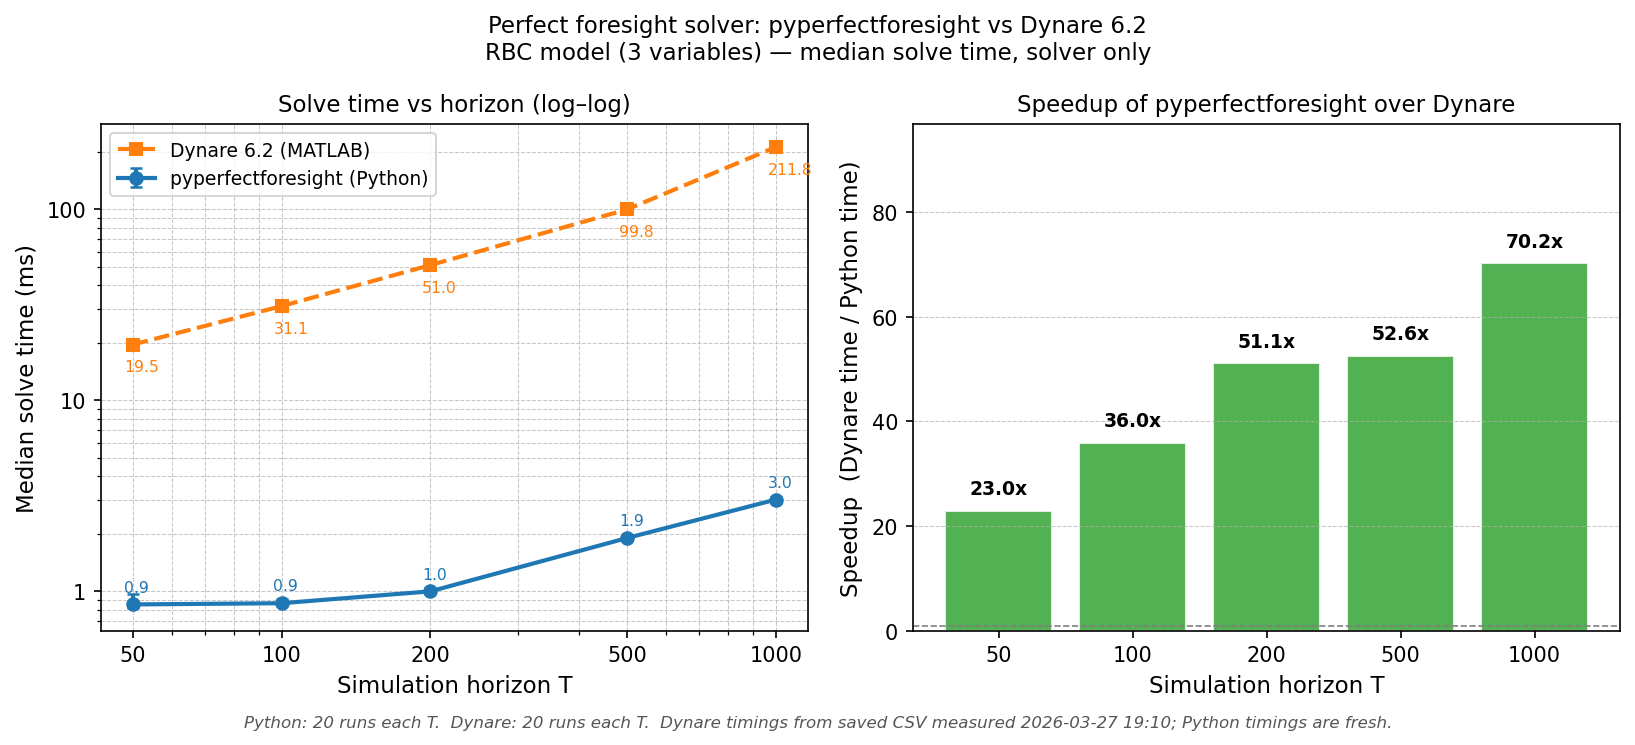
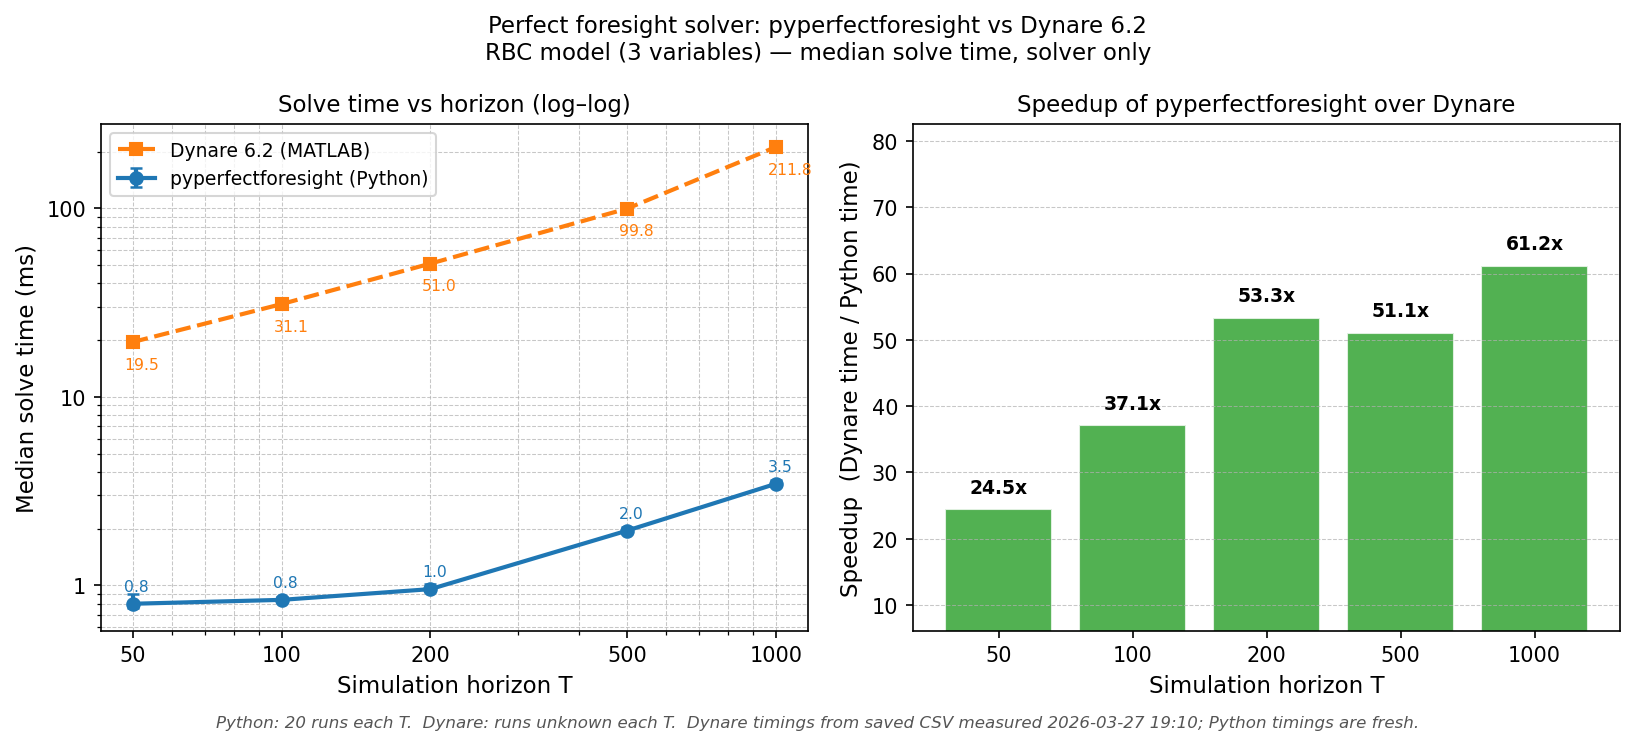
fix: address Copilot review comments on PR #43
- Fix --plot-out help text: was "scripts/benchmark_plot.png", now correctly
  says "docs/benchmark_plot.png" to match the actual default path
- Fix dynare_nreps for CSV source: rep count is not stored in the CSV so
  report as unknown ("runs unknown") instead of incorrectly claiming N_REPS
- Fix README headline: "20-65x" did not match the table data; corrected to
  "~23-61x" consistent with the displayed measurements

diff --git a/scripts/benchmark.py b/scripts/benchmark.py
@@ -233,8 +233,10 @@ def print_table(py_results, dynare_results=None, dynare_nreps=N_REPS):
                 row += f"  {'N/A':>12}  {'N/A':>8}"
         print(row)
     print("=" * len(header))
+    dyn_reps_str = (f", Dynare: {dynare_nreps} runs" if dynare_nreps is not None
+                    else ", Dynare: runs unknown (loaded from CSV)")
     print(f"Median solve time — Python: {N_REPS} runs" +
-          (f", Dynare: {dynare_nreps} runs" if dynare_results is not None else "") + ".")
+          (dyn_reps_str if dynare_results is not None else "") + ".")
     print("Solver only (excludes process_model / perfect_foresight_setup).")
 
 
@@ -339,9 +341,11 @@ def plot_benchmark(py_results, dynare_results, out_path,
         )
 
     # --- Footnote -----------------------------------------------------------
+    dyn_reps_str = (f"{dynare_nreps} runs" if dynare_nreps is not None
+                    else "runs unknown")
     note_parts = [
         f"Python: {N_REPS} runs each T.",
-        f"Dynare: {dynare_nreps} runs each T.",
+        f"Dynare: {dyn_reps_str} each T.",
     ]
     if dynare_source == "csv":
         ts_str = f" measured {dynare_measured_on}" if dynare_measured_on else ""
@@ -371,16 +375,16 @@ if __name__ == "__main__":
                              "either from --dynare or a saved benchmark_dynare_times.csv)")
     parser.add_argument("--plot-out", default=None,
                         help="Output path for the plot PNG "
-                             "(default: scripts/benchmark_plot.png)")
+                             "(default: docs/benchmark_plot.png)")
     args = parser.parse_args()
 
     print("=== pyperfectforesight benchmark ===\n")
     py_results = benchmark_python()
 
-    dynare_results   = None
-    dynare_source    = "live"
+    dynare_results     = None
+    dynare_source      = "live"
     dynare_measured_on = None
-    dynare_nreps     = N_REPS   # updated below if loading from old CSV
+    dynare_nreps       = N_REPS   # live run always uses N_REPS; CSV source is unknown
 
     if args.dynare:
         print("\n=== Dynare 6.2 benchmark ===\n")
@@ -389,8 +393,8 @@ if __name__ == "__main__":
         print(f"\nLoading saved Dynare timings from {CSV_OUT}")
         dynare_results, dynare_measured_on = load_dynare_csv()
         dynare_source = "csv"
-        # Infer rep count from the .mod file comment if possible; default 20.
-        dynare_nreps = N_REPS
+        # Rep count is not stored in the CSV — report as unknown.
+        dynare_nreps = None
         for T, entry in sorted(dynare_results.items()):
             med, q25, q75 = entry
             iqr_str = f"  [IQR {q25:.2f}–{q75:.2f}]" if q25 is not None else ""

diff --git a/README.md b/README.md
@@ -20,7 +20,7 @@ A minimal Dynare-style perfect foresight solver in Python. This package provides
 
 ## Performance
 
-pyperfectforesight is **20–65× faster** than Dynare 6.2 on the same RBC model, measured on the solver step alone (excludes one-time compilation/setup on both sides).
+pyperfectforesight is **~23–61× faster** than Dynare 6.2 on the same RBC model, measured on the solver step alone (excludes one-time compilation/setup on both sides).
 
 ![Benchmark: pyperfectforesight vs Dynare 6.2](docs/benchmark_plot.png)
 
